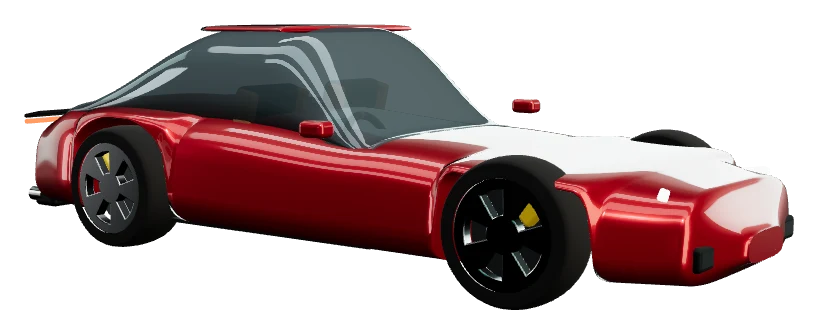
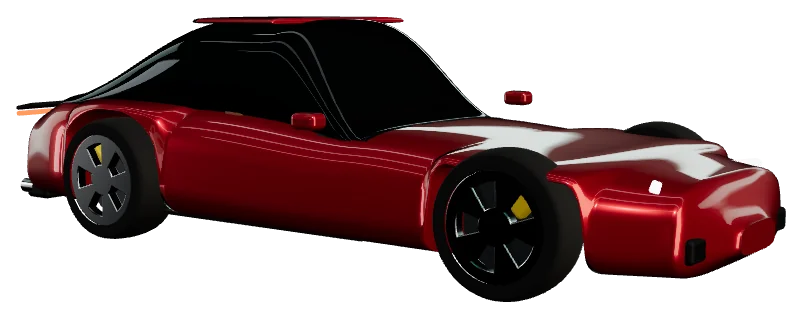
Switch to Instrument Serif and Instrument Sans, fix car model lighting and glass, refine layouts
- Instrument Serif for headings, Instrument Sans for text, a condensed marque style for the hero
- Thin overhead light strips and tinted glass so procedural cars no longer wash out white
- Events as a month timeline, members four across, register as two-up showroom cards
- Re-rendered car stills

Claude-Session: https://claude.ai/code/session_01A1Don8drEas9K5KVfTCuC6

diff --git a/src/pages/events.tsx b/src/pages/events.tsx
@@ -44,7 +44,7 @@ export function EventsPage() {
   return (
     <div className="relative overflow-hidden">
       <ChequeredFlag className="pointer-events-none absolute -right-10 top-16 size-72 rotate-6 text-champagne/10 md:right-8 md:size-[26rem]" />
-      <div className="relative mx-auto max-w-[1100px] px-4 pb-28 pt-28 md:px-8 md:pb-24">
+      <div className="relative mx-auto max-w-[1280px] px-4 pb-28 pt-28 md:px-8 md:pb-24">
         <h1 className="type-display text-5xl md:text-7xl">Events</h1>
         <p className="mt-4 max-w-xl text-base text-smoke">Drives, meets and evenings with the club. Reserve a place and we will keep it for you.</p>
 
@@ -76,9 +76,10 @@ export function EventsPage() {
             </button>
           </div>
         ) : (
-          <div className="mt-10 space-y-12">
-            <section aria-labelledby="month-lead">
-              <h2 id="month-lead" className="type-display mb-5 text-2xl text-champagne">{leadMonth}</h2>
+          <div className="mt-12 space-y-10">
+            {/* The calendar reads as a timeline: each month's name holds the left column while its events scroll past */}
+            <section aria-labelledby="month-lead" className="grid gap-5 lg:grid-cols-[200px_minmax(0,1fr)] lg:gap-10">
+              <h2 id="month-lead" className="type-display text-3xl text-champagne lg:sticky lg:top-28 lg:self-start lg:pt-2">{leadMonth}</h2>
               <div className="space-y-4">
                 <FeaturedEvent event={lead} going={going.has(lead.id)} onToggle={() => toggle(lead.id)} />
                 {months[0]?.label === leadMonth && months[0].items.map((e) => <EventRow key={e.id} event={e} going={going.has(e.id)} onToggle={() => toggle(e.id)} />)}
@@ -87,11 +88,8 @@ export function EventsPage() {
             {months
               .filter((m) => m.label !== leadMonth)
               .map((m) => (
-                <section key={m.label} aria-label={m.label}>
-                  <h2 className="type-display mb-5 flex items-center gap-4 text-2xl text-champagne">
-                    {m.label}
-                    <span className="rule-champagne h-px flex-1" aria-hidden="true" />
-                  </h2>
+                <section key={m.label} aria-label={m.label} className="grid gap-5 border-t border-line pt-10 lg:grid-cols-[200px_minmax(0,1fr)] lg:gap-10">
+                  <h2 className="type-display text-3xl text-champagne lg:sticky lg:top-28 lg:self-start lg:pt-2">{m.label}</h2>
                   <div className="space-y-4">
                     {m.items.map((e) => (
                       <EventRow key={e.id} event={e} going={going.has(e.id)} onToggle={() => toggle(e.id)} />

diff --git a/src/pages/garage.tsx b/src/pages/garage.tsx
@@ -100,10 +100,9 @@ function RegisterCard({ car }: { car: Car }) {
       <Link to={`/cars/${car.id}`} className="flex flex-1 flex-col">
         <div className="flex items-start justify-between gap-3 px-5 pt-5">
           <div>
-            <h3 className="text-[15px] font-semibold text-ivory">
-              {car.make} {car.model}
-            </h3>
-            <p className="text-[13px] text-smoke">
+            <p className="text-[13px] text-smoke">{car.make}</p>
+            <h3 className="type-display mt-1 text-[30px] text-ivory">{car.model}</h3>
+            <p className="mt-1.5 text-[13px] text-smoke">
               {car.year}, {car.engine}
             </p>
           </div>
@@ -111,7 +110,7 @@ function RegisterCard({ car }: { car: Car }) {
         </div>
         <div className="relative px-3 py-2">
           <div className="absolute inset-x-8 bottom-4 h-10 rounded-full bg-teal/10 blur-2xl" aria-hidden />
-          <CarRender car={car} className="relative mx-auto h-36 w-full transition-transform duration-700 ease-(--ease-luxe) group-hover:scale-[1.04]" />
+          <CarRender car={car} className="relative mx-auto h-40 w-full transition-transform md:h-56 duration-700 ease-(--ease-luxe) group-hover:scale-[1.04]" />
         </div>
       </Link>
       <div className="flex items-center justify-between gap-3 border-t border-line px-5 py-3.5">
@@ -171,7 +170,7 @@ export default function GaragePage() {
         <header className="mb-10 flex flex-wrap items-end justify-between gap-6">
           <div>
             <h1 className="type-display text-[clamp(2.75rem,6vw,5rem)] text-ivory">Your garage</h1>
-            <p className="mt-3 max-w-[52ch] text-[17px] text-smoke">
+            <p className="mt-3 max-w-[56ch] text-[17px] text-pretty text-smoke">
               Keep up to two cars here. Open one to walk all the way around it in 3D.
             </p>
           </div>
@@ -229,7 +228,7 @@ export default function GaragePage() {
           </div>
 
           {results.length ? (
-            <ul className="grid gap-4 sm:grid-cols-2 xl:grid-cols-3">
+            <ul className="grid gap-4 sm:grid-cols-2">
               {results.map((c) => (
                 <RegisterCard key={c.id} car={c} />
               ))}

diff --git a/src/index.css b/src/index.css
@@ -1,8 +1,7 @@
 @import "tailwindcss";
-@import "@fontsource-variable/archivo/wdth.css";
-@import "@fontsource/bodoni-moda/400.css";
-@import "@fontsource/bodoni-moda/500.css";
-@import "@fontsource/bodoni-moda/400-italic.css";
+@import "@fontsource-variable/instrument-sans/wdth.css";
+@import "@fontsource/instrument-serif/400.css";
+@import "@fontsource/instrument-serif/400-italic.css";
 
 /*
   SuperCar Club design tokens
@@ -30,8 +29,8 @@
   --color-line-strong: rgb(238 234 226 / 0.18);
   --color-signal: #d8574a;
 
-  --font-display: "Bodoni Moda", "Didot", "Bodoni 72", serif;
-  --font-sans: "Archivo Variable", "Archivo", ui-sans-serif, system-ui, sans-serif;
+  --font-display: "Instrument Serif", "Didot", "Bodoni 72", Georgia, serif;
+  --font-sans: "Instrument Sans Variable", "Instrument Sans", ui-sans-serif, system-ui, sans-serif;
 
   --radius-panel: 28px;
   --radius-tile: 18px;
@@ -123,23 +122,30 @@
 }
 
 @layer components {
-  /* Display serif, as on the Forge hero: tight, high contrast, never all caps */
+  /* Display serif, as on the Forge hero: narrow, high contrast, never all caps */
   .type-display {
     font-family: var(--font-display);
     font-weight: 400;
-    letter-spacing: -0.02em;
-    line-height: 0.98;
+    letter-spacing: -0.015em;
+    line-height: 0.95;
+    text-wrap: balance;
   }
-  /* Expanded numerals for specs, like a badge on a boot lid */
+  /* Spec figures: tabular so columns of numbers line up digit for digit */
   .type-spec {
     font-family: var(--font-sans);
-    font-variation-settings: "wdth" 125;
     font-weight: 600;
-    font-feature-settings: "tnum" 1;
+    font-variant-numeric: tabular-nums;
     letter-spacing: -0.01em;
   }
   .type-condensed {
-    font-variation-settings: "wdth" 80;
+    font-variation-settings: "wdth" 75;
+  }
+  /* Marque lettering, as on the Amalfi poster: condensed, heavy, upper case */
+  .type-marque {
+    font-family: var(--font-sans);
+    font-weight: 700;
+    font-variation-settings: "wdth" 75;
+    text-transform: uppercase;
   }
 
   /* The green-to-black field from the Amalfi poster */

diff --git a/src/components/viewer/car-viewer.tsx b/src/components/viewer/car-viewer.tsx
@@ -84,13 +84,14 @@ function Studio({ floor = true }: { floor?: boolean }) {
   return (
     <>
       <Environment resolution={256} frames={1}>
-        <Lightformer form="rect" intensity={1.6} color="#ffffff" scale={[10, 2, 1]} position={[0, 5, 0]} rotation-x={Math.PI / 2} />
-        <Lightformer form="rect" intensity={2} color="#ffffff" scale={[10, 1, 1]} position={[0, 5, -3]} rotation-x={Math.PI / 2} />
-        <Lightformer form="rect" intensity={2} color="#ffffff" scale={[10, 1, 1]} position={[0, 5, 3]} rotation-x={Math.PI / 2} />
+        {/* Thin overhead strips draw clean highlight lines along the bonnet instead of washing it white */}
+        <Lightformer form="rect" intensity={1.2} color="#ffffff" scale={[10, 0.35, 1]} position={[0, 5, 0]} rotation-x={Math.PI / 2} />
+        <Lightformer form="rect" intensity={1.4} color="#ffffff" scale={[10, 0.25, 1]} position={[0, 5, -2.5]} rotation-x={Math.PI / 2} />
+        <Lightformer form="rect" intensity={1.4} color="#ffffff" scale={[10, 0.25, 1]} position={[0, 5, 2.5]} rotation-x={Math.PI / 2} />
         <Lightformer form="rect" intensity={1.1} color="#d9f2ec" scale={[3, 5, 1]} position={[-7, 2, 0]} rotation-y={Math.PI / 2} />
         <Lightformer form="rect" intensity={3} color="#fff3dd" scale={[4, 8, 1]} position={[7, 2, 0]} rotation-y={-Math.PI / 2} />
         <Lightformer form="ring" intensity={1.2} color="#3a9b8a" scale={4} position={[0, 3, 8]} />
-        <Lightformer form="rect" intensity={4} color="#cfe9e3" scale={[14, 2.5, 1]} position={[0, 1.5, -9]} />
+        <Lightformer form="rect" intensity={1.6} color="#cfe9e3" scale={[14, 0.6, 1]} position={[0, 2.2, -9]} />
         <Lightformer form="rect" intensity={3} color="#ffffff" scale={[2, 6, 1]} position={[-9, 1.5, 5]} rotation-y={Math.PI / 3} />
         <Lightformer form="rect" intensity={1.1} color="#ffffff" scale={[8, 1.5, 1]} position={[0, 1.2, 9]} />
       </Environment>

diff --git a/src/pages/members.tsx b/src/pages/members.tsx
@@ -26,7 +26,7 @@ export function MembersPage() {
   return (
     <div className="relative overflow-hidden">
       <KeyFob className="pointer-events-none absolute -right-8 top-20 size-64 -rotate-12 text-champagne/10 md:right-10 md:size-96" />
-      <div className="relative mx-auto max-w-[1200px] px-4 pb-28 pt-28 md:px-8 md:pb-24">
+      <div className="relative mx-auto max-w-[1440px] px-4 pb-28 pt-28 md:px-8 md:pb-24">
         <h1 className="type-display text-5xl md:text-7xl">Members</h1>
         <p className="mt-4 max-w-xl text-base text-smoke">
           <span className="type-spec text-ivory">{members.length}</span> drivers, from the founders to the newest keys in the club.
@@ -53,7 +53,7 @@ export function MembersPage() {
             </button>
           </div>
         ) : (
-          <div className="mt-10 grid items-start gap-5 md:grid-cols-2 xl:grid-cols-3">
+          <div className="mt-10 grid items-start gap-5 md:grid-cols-2 xl:grid-cols-4">
             {results.map((m) => (
               <MemberCard key={m.id} member={m} open={openId === m.id} onToggle={() => setOpenId(openId === m.id ? null : m.id)} />
             ))}

diff --git a/src/components/ui/hero-scrub.tsx b/src/components/ui/hero-scrub.tsx
@@ -253,7 +253,7 @@ export function HeroScrub({
         }} />
 
         <div className="relative z-10 flex h-full w-full flex-col items-center justify-center gap-3 md:gap-4">
-          <h2 ref={titleTopRef} aria-hidden className="font-black uppercase" style={{
+          <h2 ref={titleTopRef} aria-hidden className="type-marque" style={{
             fontSize: "clamp(3.75rem, 12vw, 11rem)", lineHeight: 0.85, letterSpacing: "-0.04em",
           }}>{titleTop}</h2>
 
@@ -268,7 +268,7 @@ export function HeroScrub({
             )}
           </div>
 
-          <h2 ref={titleBottomRef} aria-hidden className="font-black uppercase" style={{
+          <h2 ref={titleBottomRef} aria-hidden className="type-marque" style={{
             fontSize: "clamp(3.75rem, 12vw, 11rem)", lineHeight: 0.85, letterSpacing: "-0.04em",
           }}>{titleBottom}</h2>
         </div>

diff --git a/src/components/viewer/procedural/car-geometry.ts b/src/components/viewer/procedural/car-geometry.ts
@@ -332,12 +332,11 @@ export function createMaterials(paintHex: string, trim: Trim): CarMaterials {
       clearcoatRoughness: 0.06,
     }),
     glass: new THREE.MeshPhysicalMaterial({
-      color: '#56676d',
-      metalness: 0.45,
-      roughness: 0.04,
-      transparent: true,
-      opacity: 0.9,
-      envMapIntensity: 2.2,
+      // Dark tinted glass: reads as a real glasshouse instead of a clear bubble over the cabin.
+      color: '#1b2427',
+      metalness: 0.7,
+      roughness: 0.05,
+      envMapIntensity: 1.8,
     }),
     trim: new THREE.MeshStandardMaterial({ color: '#0b0c0d', roughness: 0.55, metalness: 0.3 }),
     chrome: new THREE.MeshStandardMaterial({ color: '#e8e8e8', roughness: 0.08, metalness: 1 }),

diff --git a/src/components/memorabilia/index.tsx b/src/components/memorabilia/index.tsx
@@ -74,7 +74,7 @@ export function Tachometer({ className }: MemorabiliaProps) {
         y={y}
         fill="currentColor"
         stroke="none"
-        fontFamily="Archivo, sans-serif"
+        fontFamily="'Instrument Sans Variable', sans-serif"
         fontSize={11}
         textAnchor="middle"
         dominantBaseline="central"
@@ -289,7 +289,7 @@ export function RaceNumber({ className, number = 7 }: MemorabiliaProps & { numbe
         y={101}
         fill="currentColor"
         stroke="none"
-        fontFamily="'Bodoni Moda', serif"
+        fontFamily="'Instrument Serif', serif"
         fontSize={size}
         textAnchor="middle"
         dominantBaseline="central"
